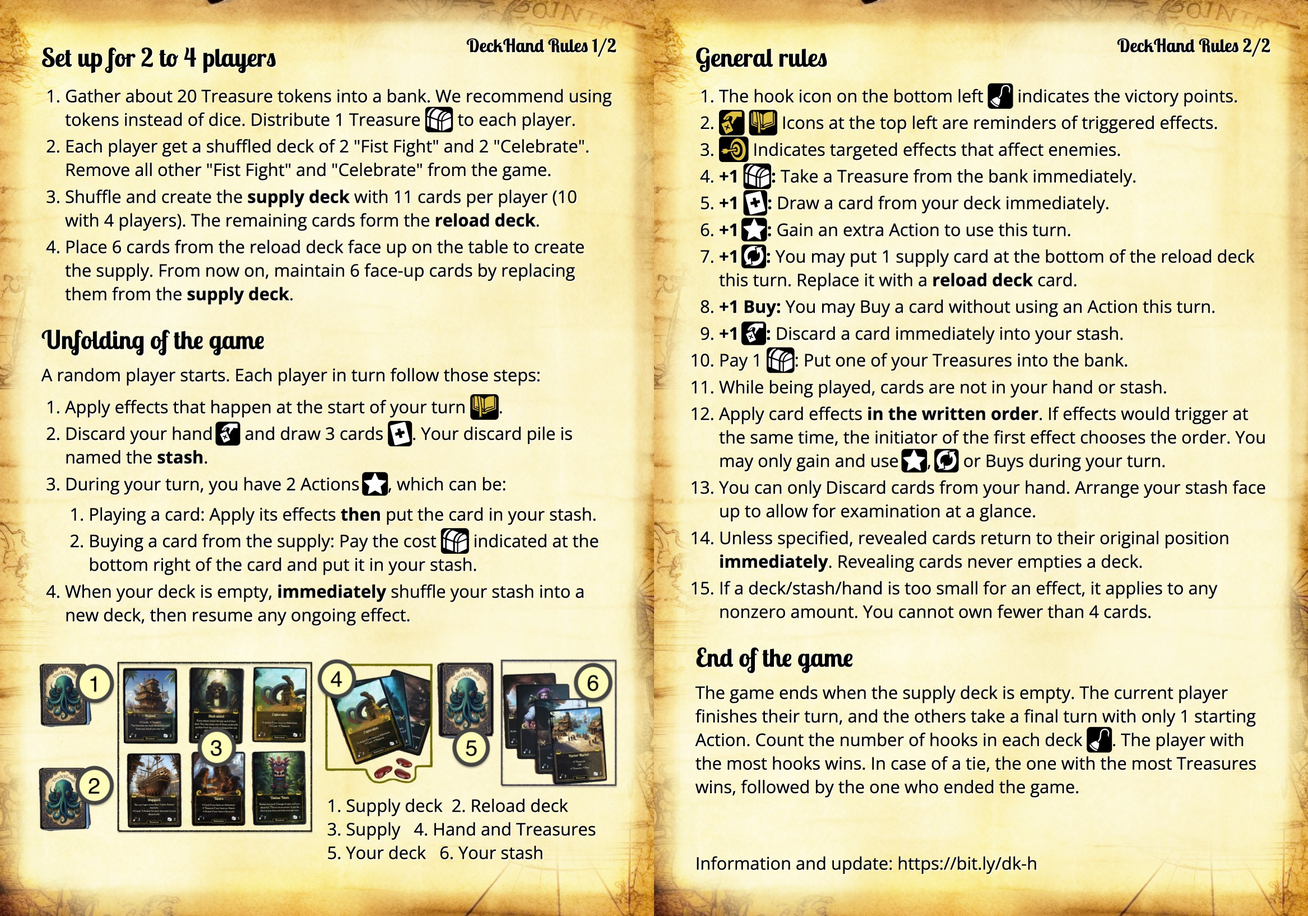
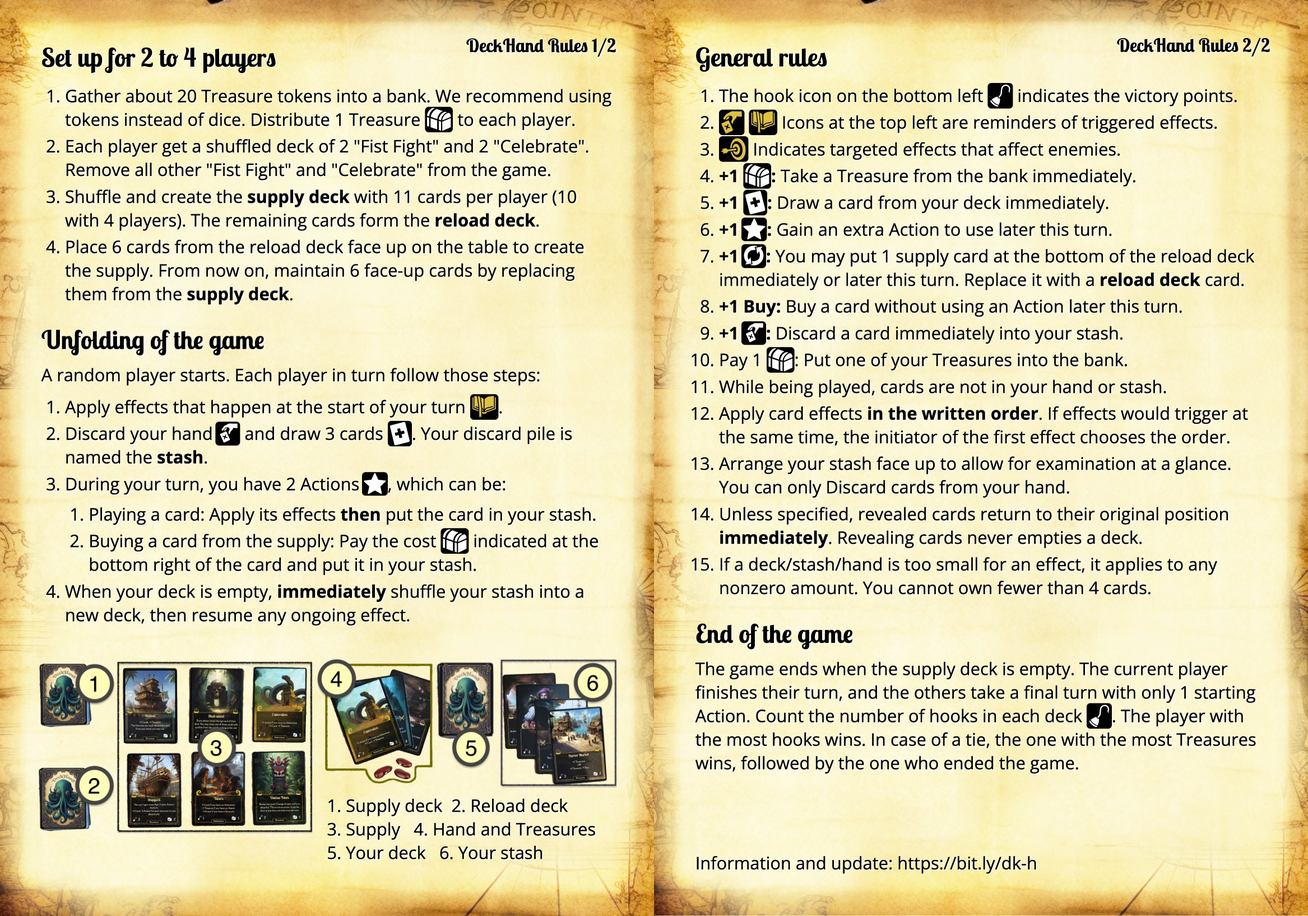
Finalizing version

diff --git a/deckhand/design.html b/deckhand/design.html
@@ -108,8 +108,8 @@
                 <li><b>+1 <img class="rule-icon star" src="icons/card-discard.svg" />:</b> Discard a card immediately into your stash.</li>
                 <li>Pay 1 <img class="rule-icon" src="icons/chest-simplified.svg" />: Put one of your Treasures into the bank.</li>
                 <li>While being played, cards are not in your hand or stash.</li>
-                <li>Apply card effects <b>in the written order</b>. If effects would trigger at the same time, the initiator of the first effect chooses the order.
-                    You may only gain and use <img class="rule-icon star" src="icons/star.svg" />, <img class="rule-icon star" src="icons/cycle-2.svg" /> or Buys during your turn.</li>
+                <li>Apply card effects <b>in the written order</b>. If effects would trigger at the same time, the initiator of the first effect chooses the order.</li>
+                <!-- You may only gain and use <img class="rule-icon star" src="icons/star.svg" />, <img class="rule-icon star" src="icons/cycle-2.svg" /> or Buys during your turn. -->
                 <!-- <li>Cards have 3 possible types: Attack, Structure, Adventure.</li> -->
                 <li>Arrange your stash face up to allow for examination at a glance. You can only Discard cards from your hand.</li>
                 <li>Unless specified, revealed cards return to their original position <b>immediately</b>. 

diff --git a/deckhand/cards.en.js b/deckhand/cards.en.js
@@ -194,7 +194,7 @@ var cards = [
 {
     'title': 'Council Hall',
     'text': 'A chosen enemy takes a card from the supply and puts it in your stash.',
-    'flavor': 'Gold for a seat is wealth wasted on whispers.',
+    'flavor': 'Gold secured you a seat, yet your influence remain desperately elusive.',
     'img': 'structures/council-hall.png',
     'type': 'structure',
     'cost': 2,
@@ -663,11 +663,11 @@ var cards = [
 
 {
     'title': 'Kraken’s Fury',
-    'text': 'All players Discard their hand. Apply the effects of a card from any stash.',
+    'text': 'Apply the effects of a card from any stash.',
     'flavor': 'Beware of the devourer of ships and souls.',
     'img': 'attacks/kraken.png',
     'type': 'attack',
-    'victory': '3',
+    'victory': '4',
     'cost': '4',
     'amount': 1
 },

diff --git a/deckhand/index.html b/deckhand/index.html
@@ -15,7 +15,7 @@
     <div class="hand">
         <div class="card small-card" id="card1"><img src="marketing/cards/spice-trade.png" alt=""></div>
         <div class="card" id="card2"><img src="marketing/cards/lost-expedition.png" alt=""></div>
-        <div class="card large-card" id="card3"><img src="marketing/cards/kraken’s-fury.png" alt=""></div>
+        <div class="card large-card" id="card3"><img src="marketing/cards/krakens-fury.png" alt=""></div>
         <div class="card" id="card4"><img src="marketing/cards/ghost-crew.png" alt=""></div>
         <div class="card small-card" id="card5"><img src="marketing/cards/desperate-chase.png" alt=""></div>
     </div>
